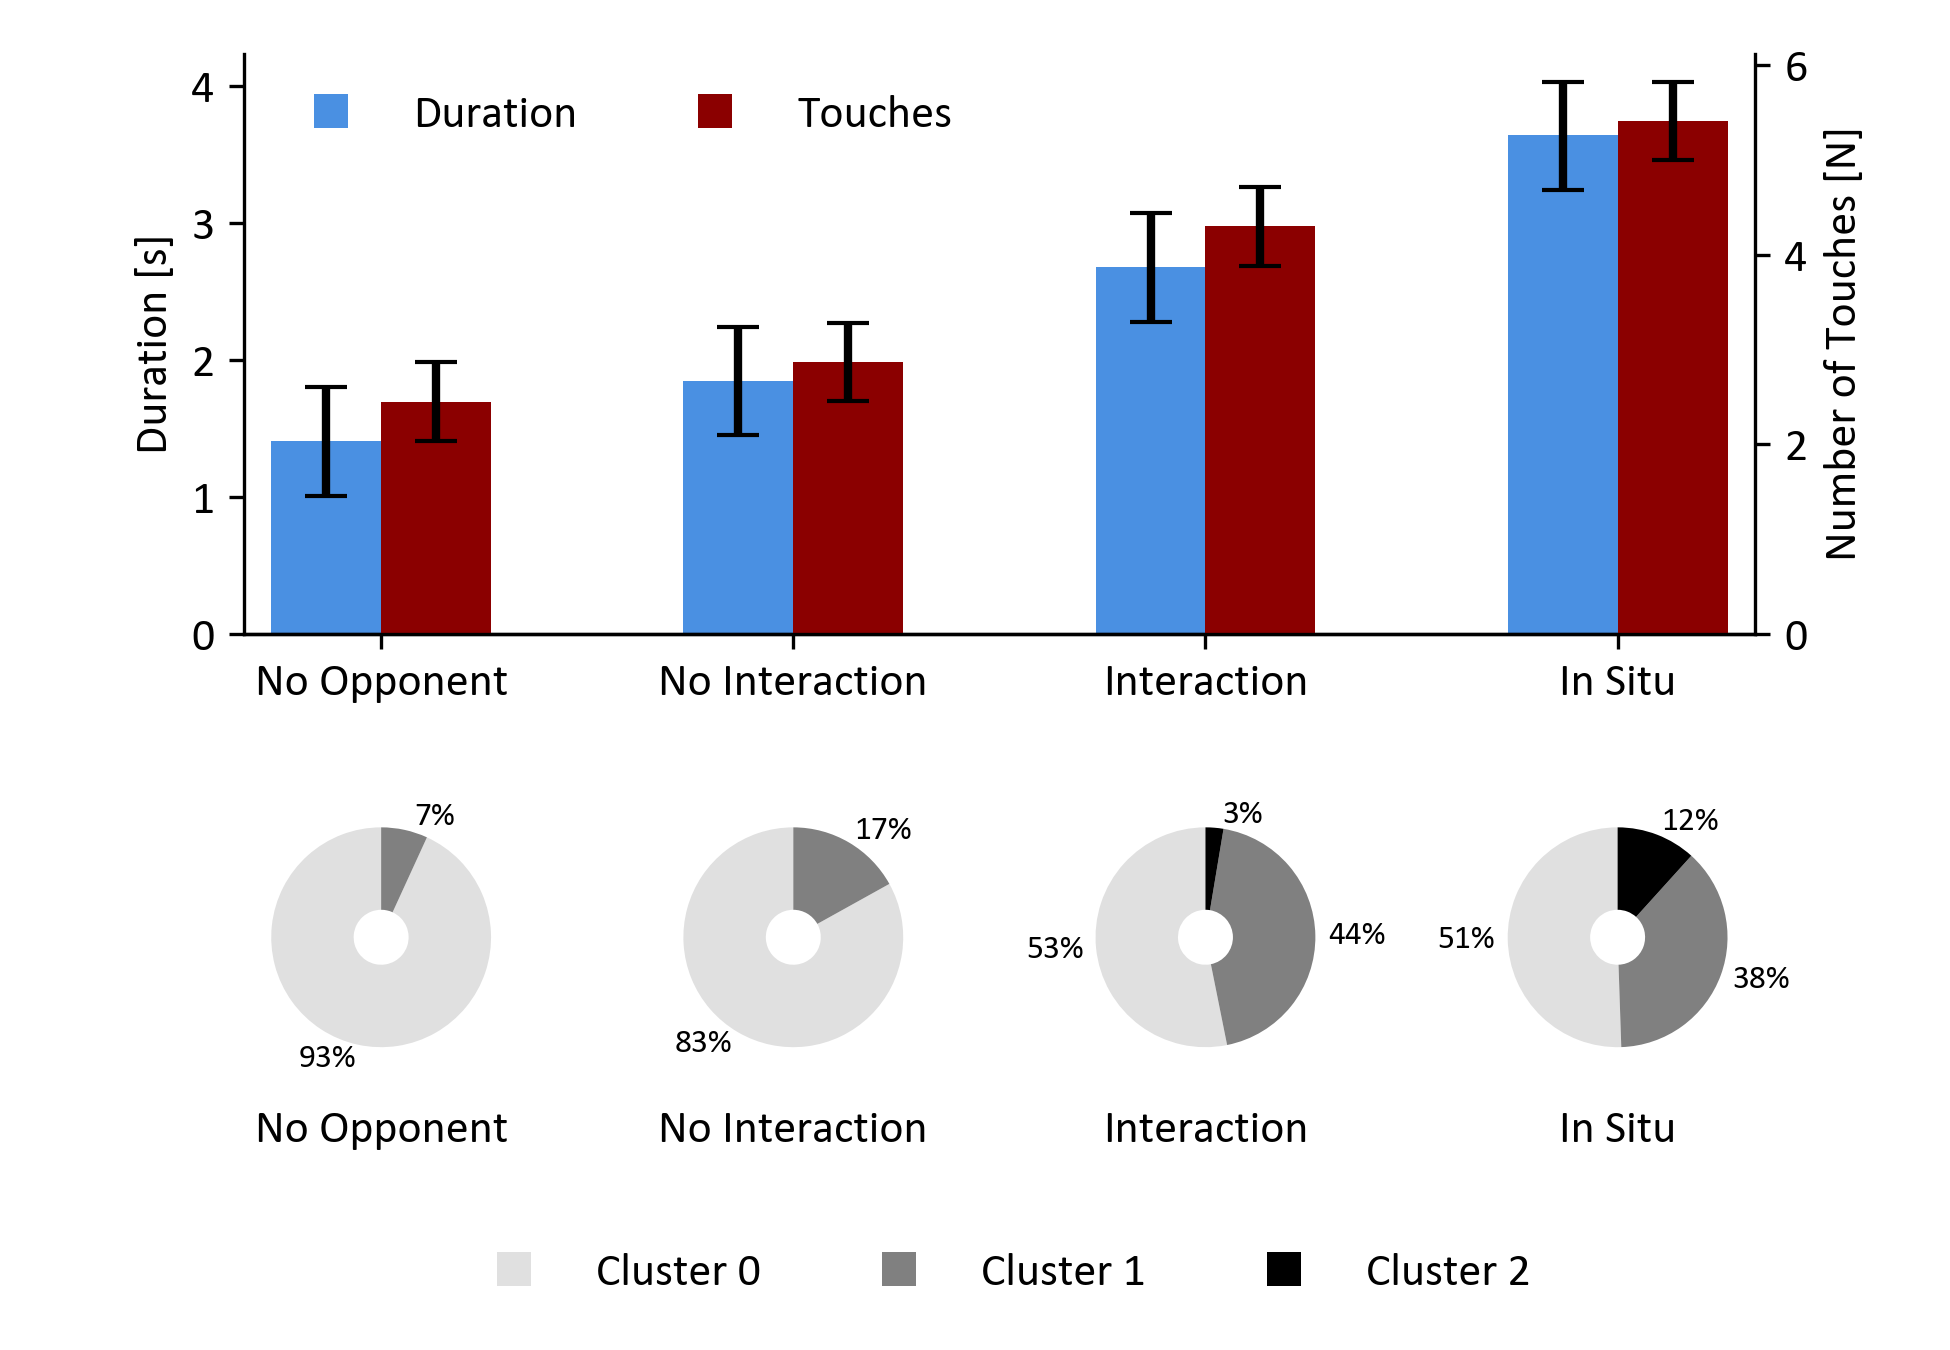
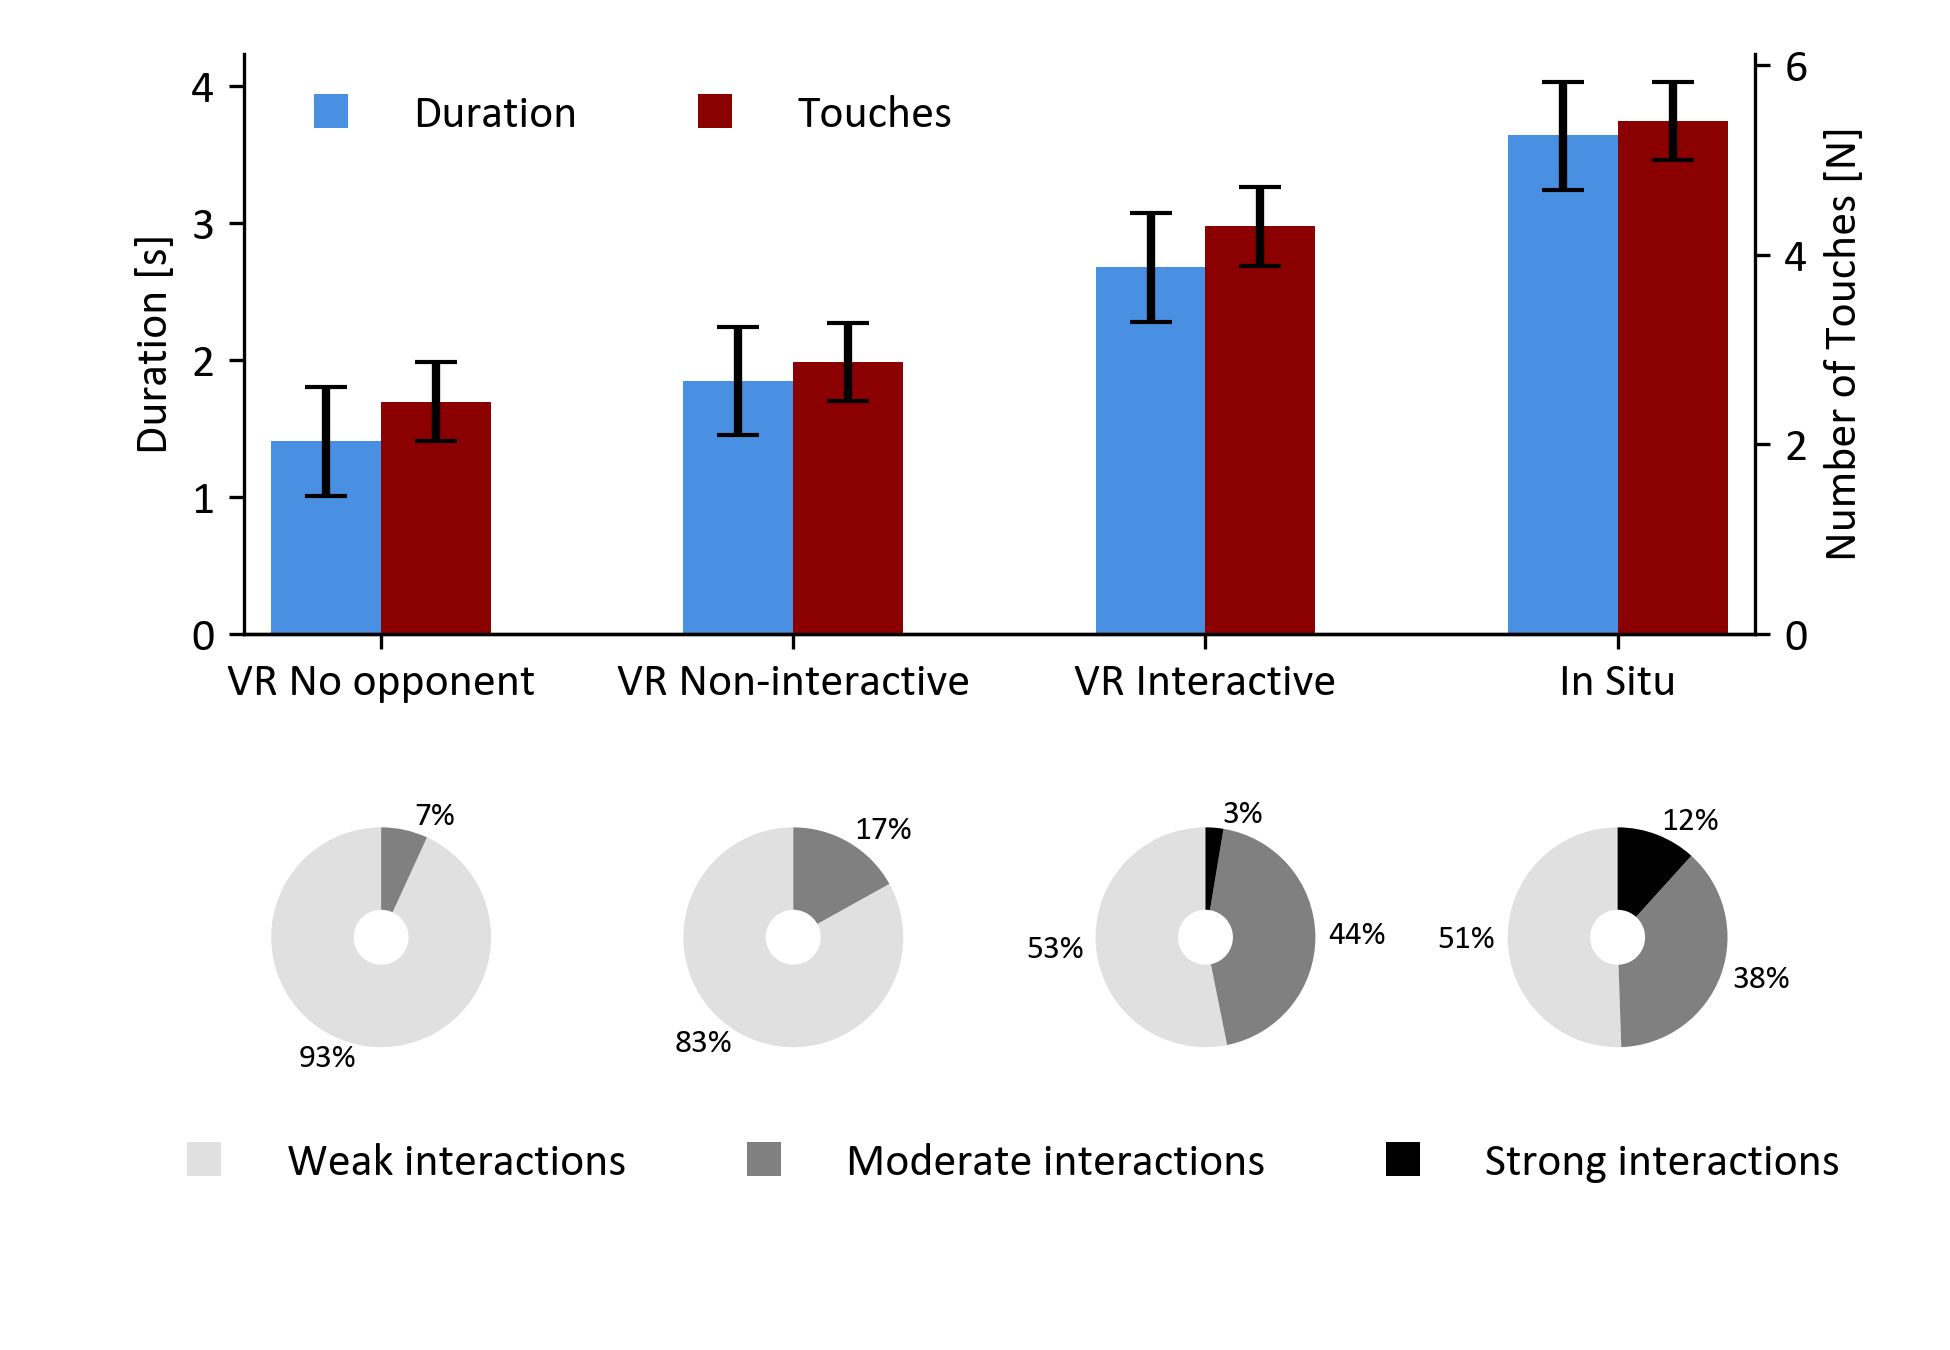
update labels for plots

diff --git a/Python.Analysis/src/combined_figures.py b/Python.Analysis/src/combined_figures.py
@@ -1,4 +1,3 @@
-import re
 from pathlib import Path
 
 import arviz as az
@@ -33,14 +32,15 @@ def combined_predictive_and_cluster_figure(
     touches_lower = np.percentile(touches_samples, 2.5, axis=1)
     touches_upper = np.percentile(touches_samples, 97.5, axis=1)
 
-    conditions = [c.value for c in reversed(Condition)]
+    # Get conditions in reversed order
+    conditions = list(reversed(Condition))
     x_positions = {
-        "NoOpponent": 1.0,
-        "NoInteraction": 2.5,
-        "Interaction": 4.0,
-        "InSitu": 5.5
+        str(Condition.NoOpponent): 1.0,
+        str(Condition.NoInteraction): 2.5, 
+        str(Condition.Interaction): 4.0,
+        str(Condition.InSitu): 5.5
     }
-    x_pos = np.array([x_positions[cond] for cond in conditions])
+    x_pos = np.array([x_positions[str(cond)] for cond in conditions])
 
     fig = plt.figure(figsize=(persistence.figure_width(ColumnFormat.DOUBLE), 4.5))
     fig.subplots_adjust(hspace=0.02, top=0.96, bottom=0.08)
@@ -66,7 +66,7 @@ def combined_predictive_and_cluster_figure(
     ax2.set_ylabel('Number of Touches [N]')
 
     ax1.set_xticks(x_pos)
-    formatted_labels = [re.sub(r'([a-z])([A-Z])', r'\1 \2', label) for label in conditions]
+    formatted_labels = [str(cond) for cond in conditions]
     ax1.set_xticklabels(formatted_labels, rotation=0)
 
     legend_labels_top = ['Duration', 'Touches']
@@ -90,18 +90,17 @@ def combined_predictive_and_cluster_figure(
     ax3 = fig.add_subplot(gs[1])
     ax3.set_anchor('N')
 
-    colors = ['#E0E0E0','#808080', '#000000']
+    colors = ['#E0E0E0', '#808080', '#000000']
 
     for condition in reversed(Condition):
-        labels = [trial.cluster_label for trial in trials
-                  if trial.condition == condition and trial.cluster_label is not None]
+        labels = [trial.cluster_label for trial in trials if trial.condition == condition]
         label_set = sorted(set(labels))
         counts = [labels.count(label) for label in label_set]
         total = sum(counts)
         sizes = [count / total * 100 for count in counts]
         cluster_colors = [colors[label % len(colors)] for label in label_set]
 
-        pie_x = x_positions[condition.value]
+        pie_x = x_positions[str(condition)]
         pie_y = 0.5
 
         wedges, _ = ax3.pie(
@@ -128,10 +127,9 @@ def combined_predictive_and_cluster_figure(
                 x += 0.1
             ax3.text(x, y, f"{int(round(sizes[i]))}%", ha='center', va='center', fontsize=8)
 
-        formatted_label = re.sub(r'([a-z])([A-Z])', r'\1 \2', condition.value)
-        ax3.text(pie_x, -0.2, formatted_label, ha='center', va='center')
 
     legend_labels = [f'Cluster {i}' for i in range(3)]
+    legend_labels_override = ["Weak interactions", "Moderate interactions", "Strong interactions"]
     legend_colors = [colors[i] for i in range(3)]
     legend_handles = [
         plt.Line2D([0], [0], marker='s', linestyle='None', color='none',
@@ -140,9 +138,9 @@ def combined_predictive_and_cluster_figure(
     ]
     ax3.legend(
         legend_handles,
-        legend_labels,
+        legend_labels_override,
         loc='upper center',
-        bbox_to_anchor=(0.5, 0.0),
+        bbox_to_anchor=(0.5, +0.2),
         ncol=3,
         frameon=False
     )

diff --git a/Python.Analysis/src/regressions/post_hoc.py b/Python.Analysis/src/regressions/post_hoc.py
@@ -29,25 +29,19 @@ def duration_and_touches_post_hoc(duration_model_path: Path, touches_model_path:
     # Create figure with two subplots
     fig, (ax1, ax2) = plt.subplots(2, 1, figsize=(persistence.figure_width(ColumnFormat.DOUBLE), 3.5))
     
-    # Calculate duration differences
+    # Calculate duration and touches differences in a single loop
     duration_diffs = {}
-    for i in range(len(conditions)):
-        for j in range(i + 1, len(conditions)):
-            diff = duration_samples[:, j] - duration_samples[:, i]
-            condition_j = re.sub(r'([a-z])([A-Z])', r'\1 \2', conditions[j])
-            condition_i = re.sub(r'([a-z])([A-Z])', r'\1 \2', conditions[i])
-            comparison = f'{condition_j} vs {condition_i}'
-            duration_diffs[comparison] = diff
-    
-    # Calculate touches differences
     touches_diffs = {}
     for i in range(len(conditions)):
         for j in range(i + 1, len(conditions)):
-            diff = touches_samples[:, j] - touches_samples[:, i]
-            condition_j = re.sub(r'([a-z])([A-Z])', r'\1 \2', conditions[j])
-            condition_i = re.sub(r'([a-z])([A-Z])', r'\1 \2', conditions[i])
+            # Get formatted condition names using the __str__ method
+            condition_j = str(Condition(conditions[j]))
+            condition_i = str(Condition(conditions[i]))
             comparison = f'{condition_j} vs {condition_i}'
-            touches_diffs[comparison] = diff
+            
+            # Calculate differences for both duration and touches
+            duration_diffs[comparison] = duration_samples[:, j] - duration_samples[:, i]
+            touches_diffs[comparison] = touches_samples[:, j] - touches_samples[:, i]
     
     # Sort differences by effect size (mean absolute difference)
     duration_diffs = dict(sorted(

diff --git a/Python.Analysis/src/domain.py b/Python.Analysis/src/domain.py
@@ -2,8 +2,8 @@ import abc
 from dataclasses import dataclass
 from enum import Enum
 from typing import List
-import numpy as np
 
+import numpy as np
 
 
 class Condition(Enum):
@@ -11,6 +11,17 @@ class Condition(Enum):
     Interaction = "Interaction"
     NoInteraction = "NoInteraction"
     NoOpponent = "NoOpponent"
+
+    def __str__(self) -> str:
+        if self == Condition.InSitu:
+            return "In Situ"
+        elif self == Condition.Interaction:
+            return "VR Interactive"
+        elif self == Condition.NoInteraction:
+            return "VR Non-interactive"
+        elif self == Condition.NoOpponent:
+            return "VR No opponent"
+        return self.__repr__()
 
 
 @dataclass
